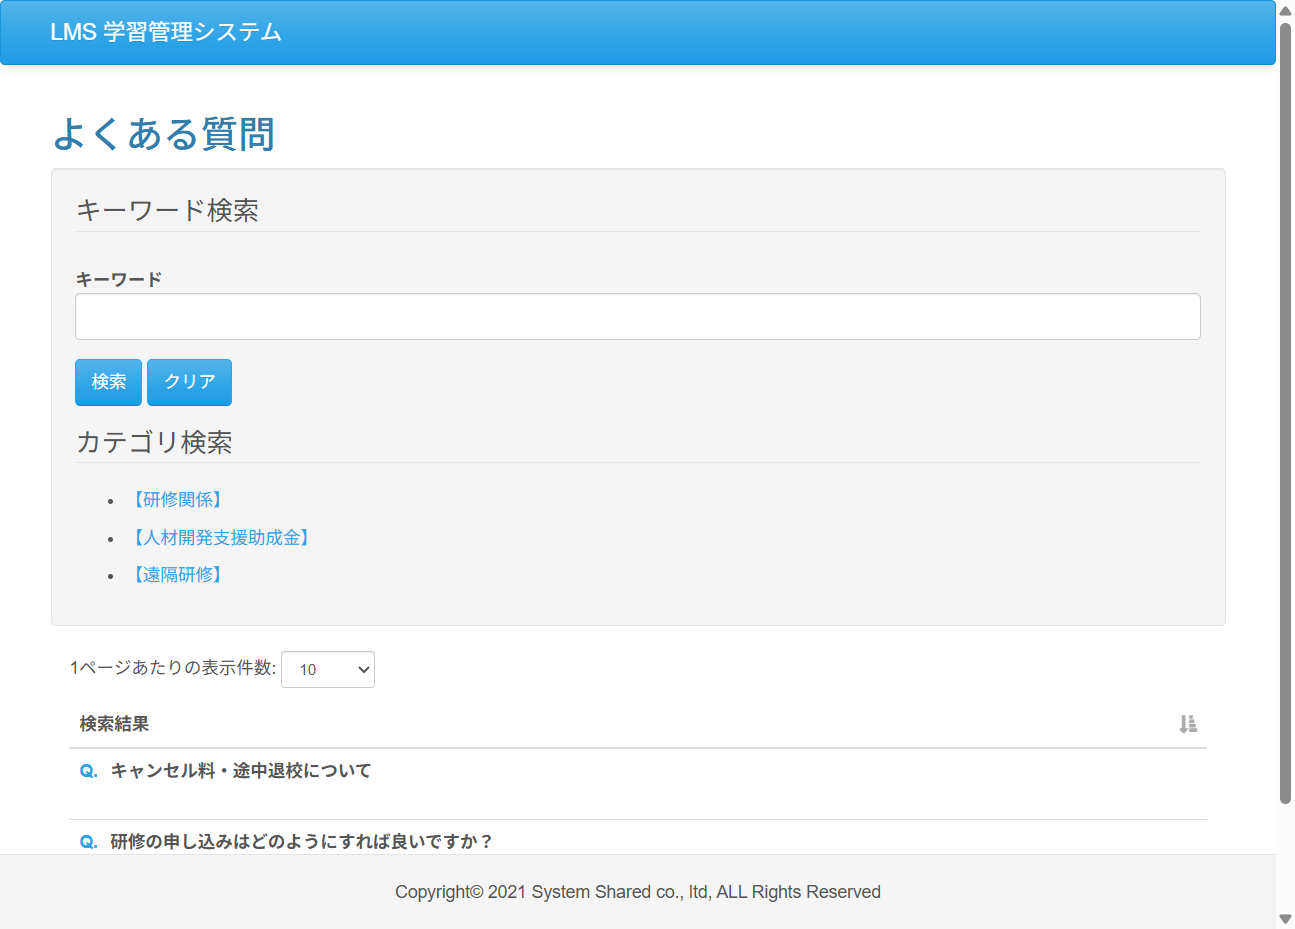
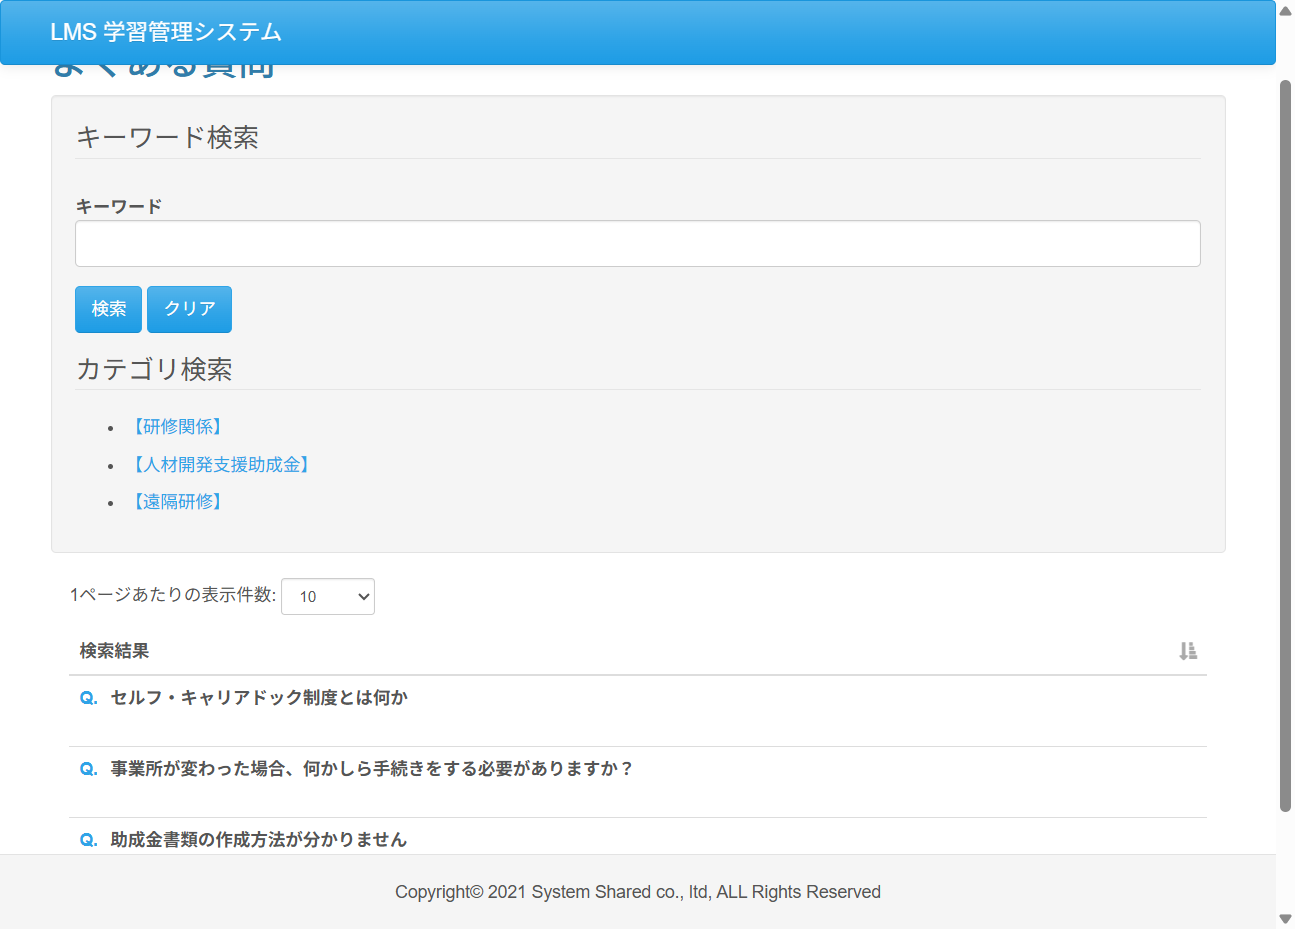
fix:Case06のtest05 落合 カテゴリ検索で該当カテゴリの検索結果だけ表示

diff --git a/test_code_creation_name/src/test/java/jp/co/sss/lms/ct/f02_faq/Case06.java b/test_code_creation_name/src/test/java/jp/co/sss/lms/ct/f02_faq/Case06.java
@@ -3,8 +3,6 @@ package jp.co.sss.lms.ct.f02_faq;
 import static jp.co.sss.lms.ct.util.WebDriverUtils.*;
 import static org.junit.jupiter.api.Assertions.*;
 
-import java.util.List;
-
 import org.junit.jupiter.api.AfterAll;
 import org.junit.jupiter.api.BeforeAll;
 import org.junit.jupiter.api.DisplayName;
@@ -124,22 +122,32 @@ public class Case06 {
 	@Order(5)
 	@DisplayName("テスト05 カテゴリ検索で該当カテゴリの検索結果だけ表示")
 	void test05() {
-		/** カテゴリを選択*/
-		List<WebElement> categoryLinks = webDriver
-				.findElements(By.cssSelector("fieldset a[href*='frequentlyAskedQuestionCategoryId']"));
 
-		/**カテゴリが表示されていることを確認*/
-		assertFalse(categoryLinks.isEmpty());
+		// 「人材開発支援助成金」カテゴリをクリック
+		webDriver.findElement(
+				By.xpath("//a[contains(.,'人材開発支援助成金')]")).click();
 
-		/**最初のカテゴリをチェック*/
-		categoryLinks.get(0).click();
+		// 検索結果の表示を待機
+		visibilityTimeout(
+				By.cssSelector("table.sortabletable"), 5);
 
-		/**検索結果のテーブルが表示されるまで最大５秒待つ*/
-		visibilityTimeout(By.cssSelector("table.sortabletable"), 5);
+		// 検索結果が表示されていることを確認
+		assertTrue(webDriver.findElement(
+				By.cssSelector("table.sortabletable")).isDisplayed());
 
-		/**検索結果が表示されていることを確認*/
-		assertTrue(webDriver.findElement(By.cssSelector("table.sortabletable")).isDisplayed());
+		// 「人材開発支援助成金」の質問が表示されていることを確認
+		WebElement question = webDriver.findElement(
+				By.xpath("//*[contains(text(),'人材開発支援助成金')]"));
 
+		// 質問が見える位置までスクロール
+		((JavascriptExecutor) webDriver).executeScript(
+				"arguments[0].scrollIntoView({block: 'center'});",
+				question);
+
+		// 正しい質問が表示されていることを確認
+		assertTrue(question.isDisplayed());
+
+		// エビデンスを保存
 		getEvidence(new Object() {
 		});
 	}
